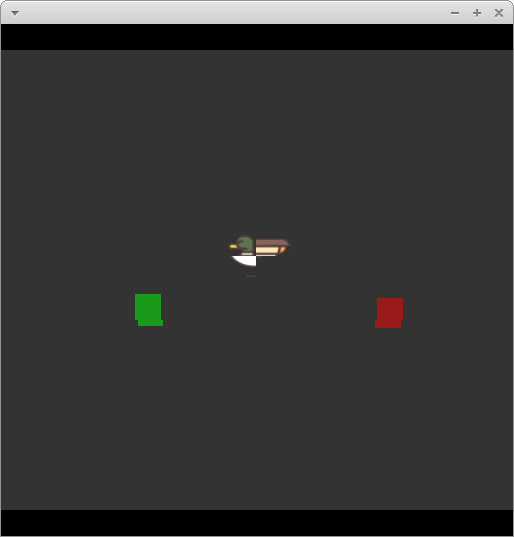
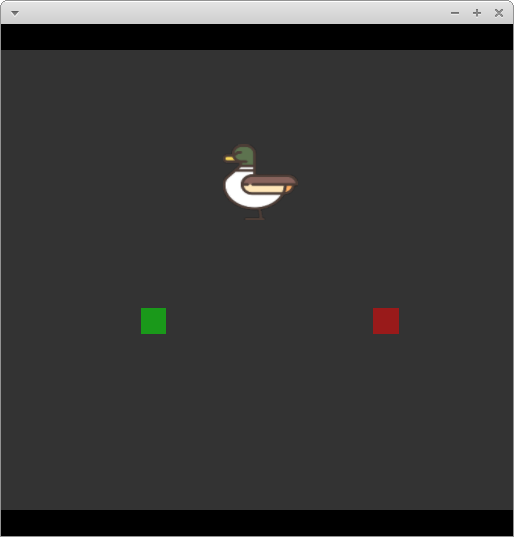
Changed screenshot

diff --git a/game1.c b/game1.c
@@ -16,7 +16,7 @@ void translate(float x, float y);
 
 void go(){
   print_str("starting 'game'\n");
-  float x = 0.0;
+  float x = 200.5;
   u64 tex = load_texture("../iron/duck.png");
   while(1){
 
@@ -32,7 +32,7 @@ void go(){
     blit_texture(sinf(-x * 0.01) * 0.5, 0, tex);
 
     swap_buffer();
-    x += 1;
+    //x += 1;
 
   }
 

diff --git a/Readme.md b/Readme.md
@@ -1,5 +1,5 @@
 ## awsm game example
 
-This is a screenshot from the game:
+This is a screenshot from the game
 
 ![Game Screenshot](game.png)
